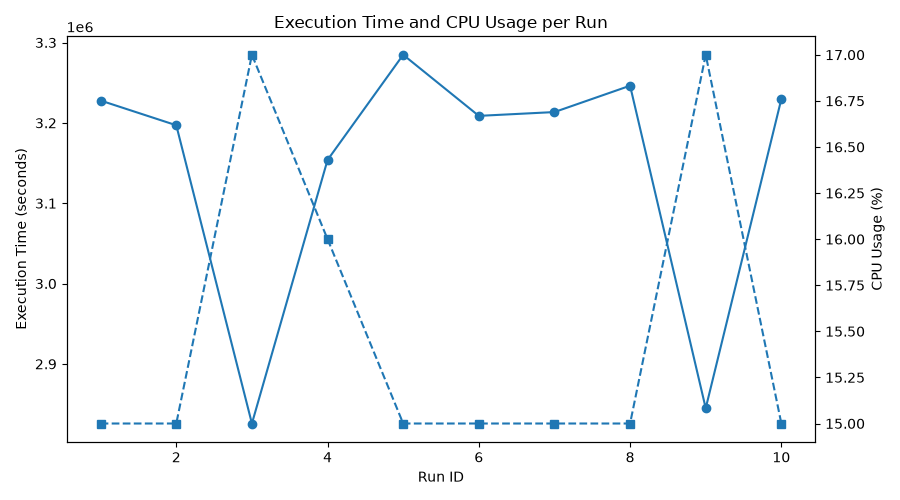
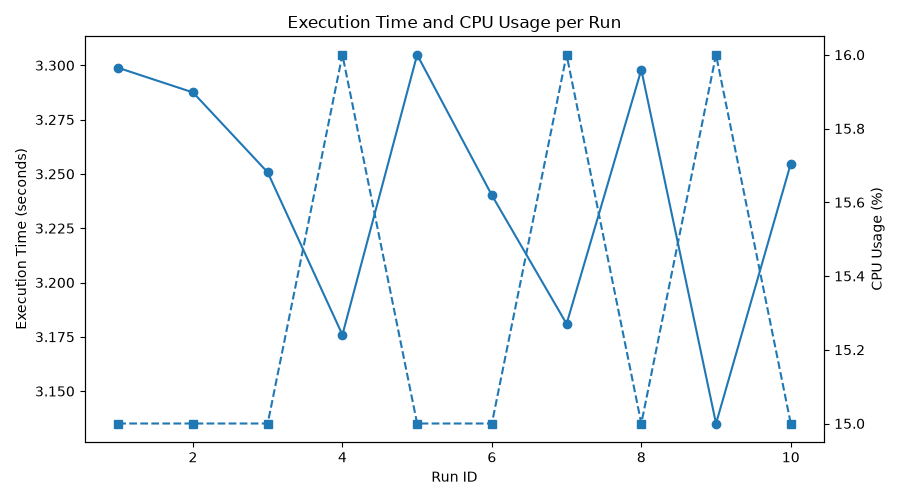
Updated the seconds unit for matrix.c

diff --git a/matrix.c b/matrix.c
@@ -45,7 +45,7 @@ int do_job(int rows1, int cols1, int cols2, int forever) {
         free(matrix1);
         free(matrix2);
         free(result);
-        return -1;
+        return -1.0f;
     }
 
     printf("Generating Matrices...");
@@ -71,6 +71,6 @@ int do_job(int rows1, int cols1, int cols2, int forever) {
     free(matrix1);
     free(matrix2);
     free(result);
-    return (int)(total_time * 1000000.0f);
+    return total_time;
 }
 
